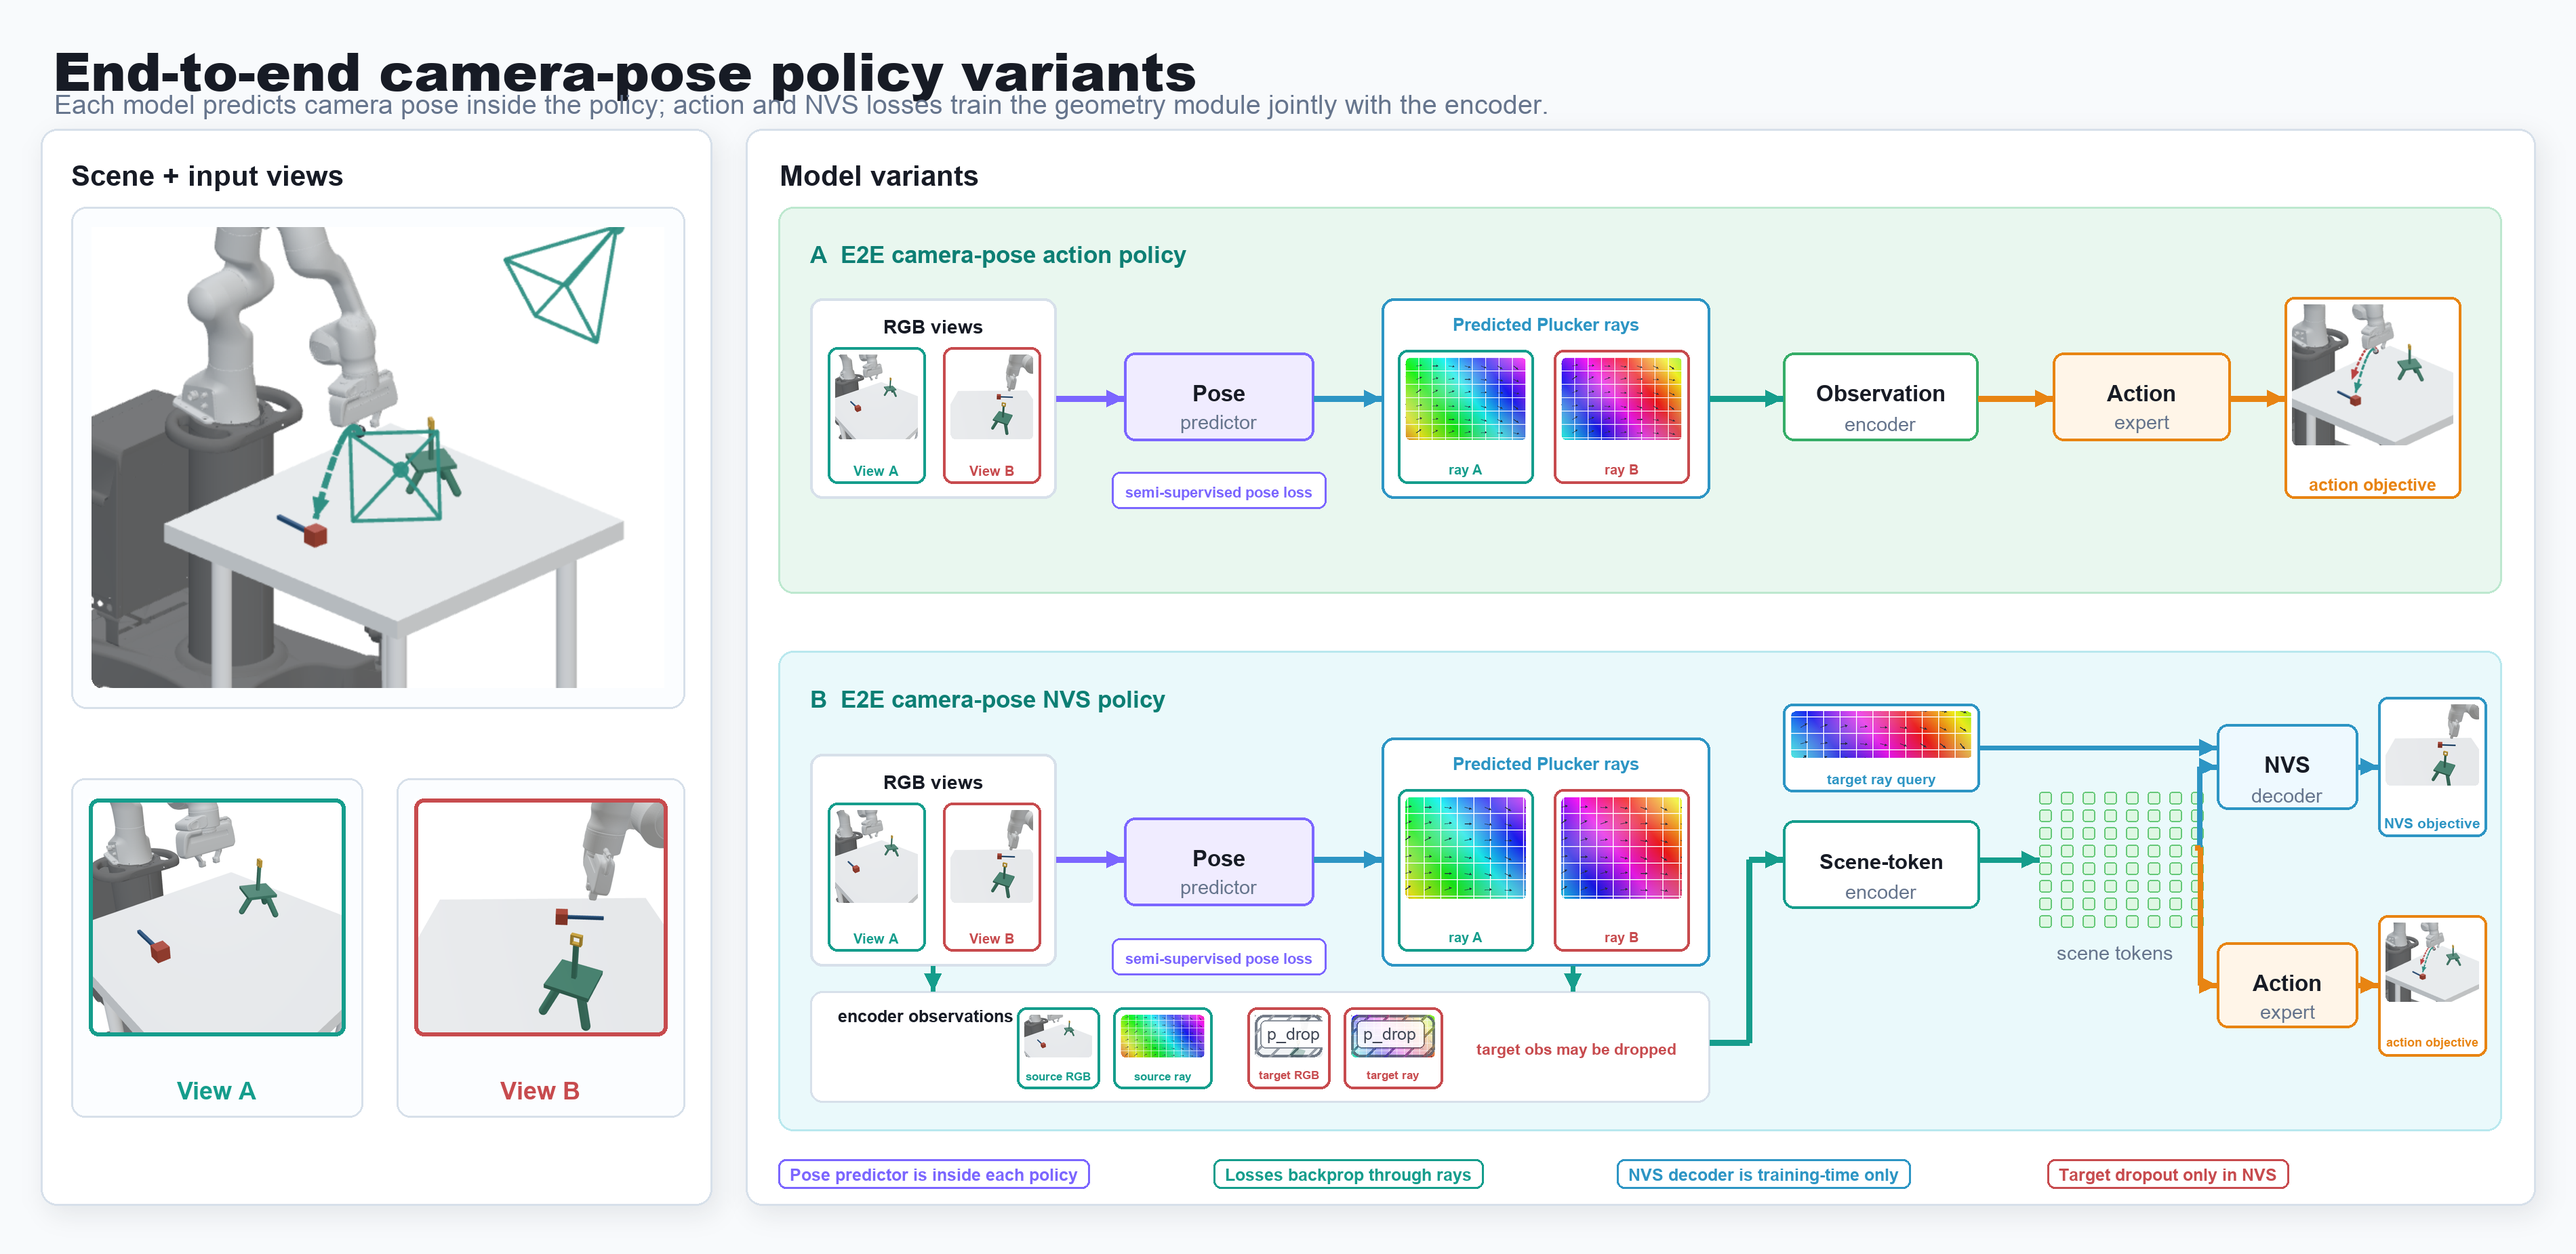
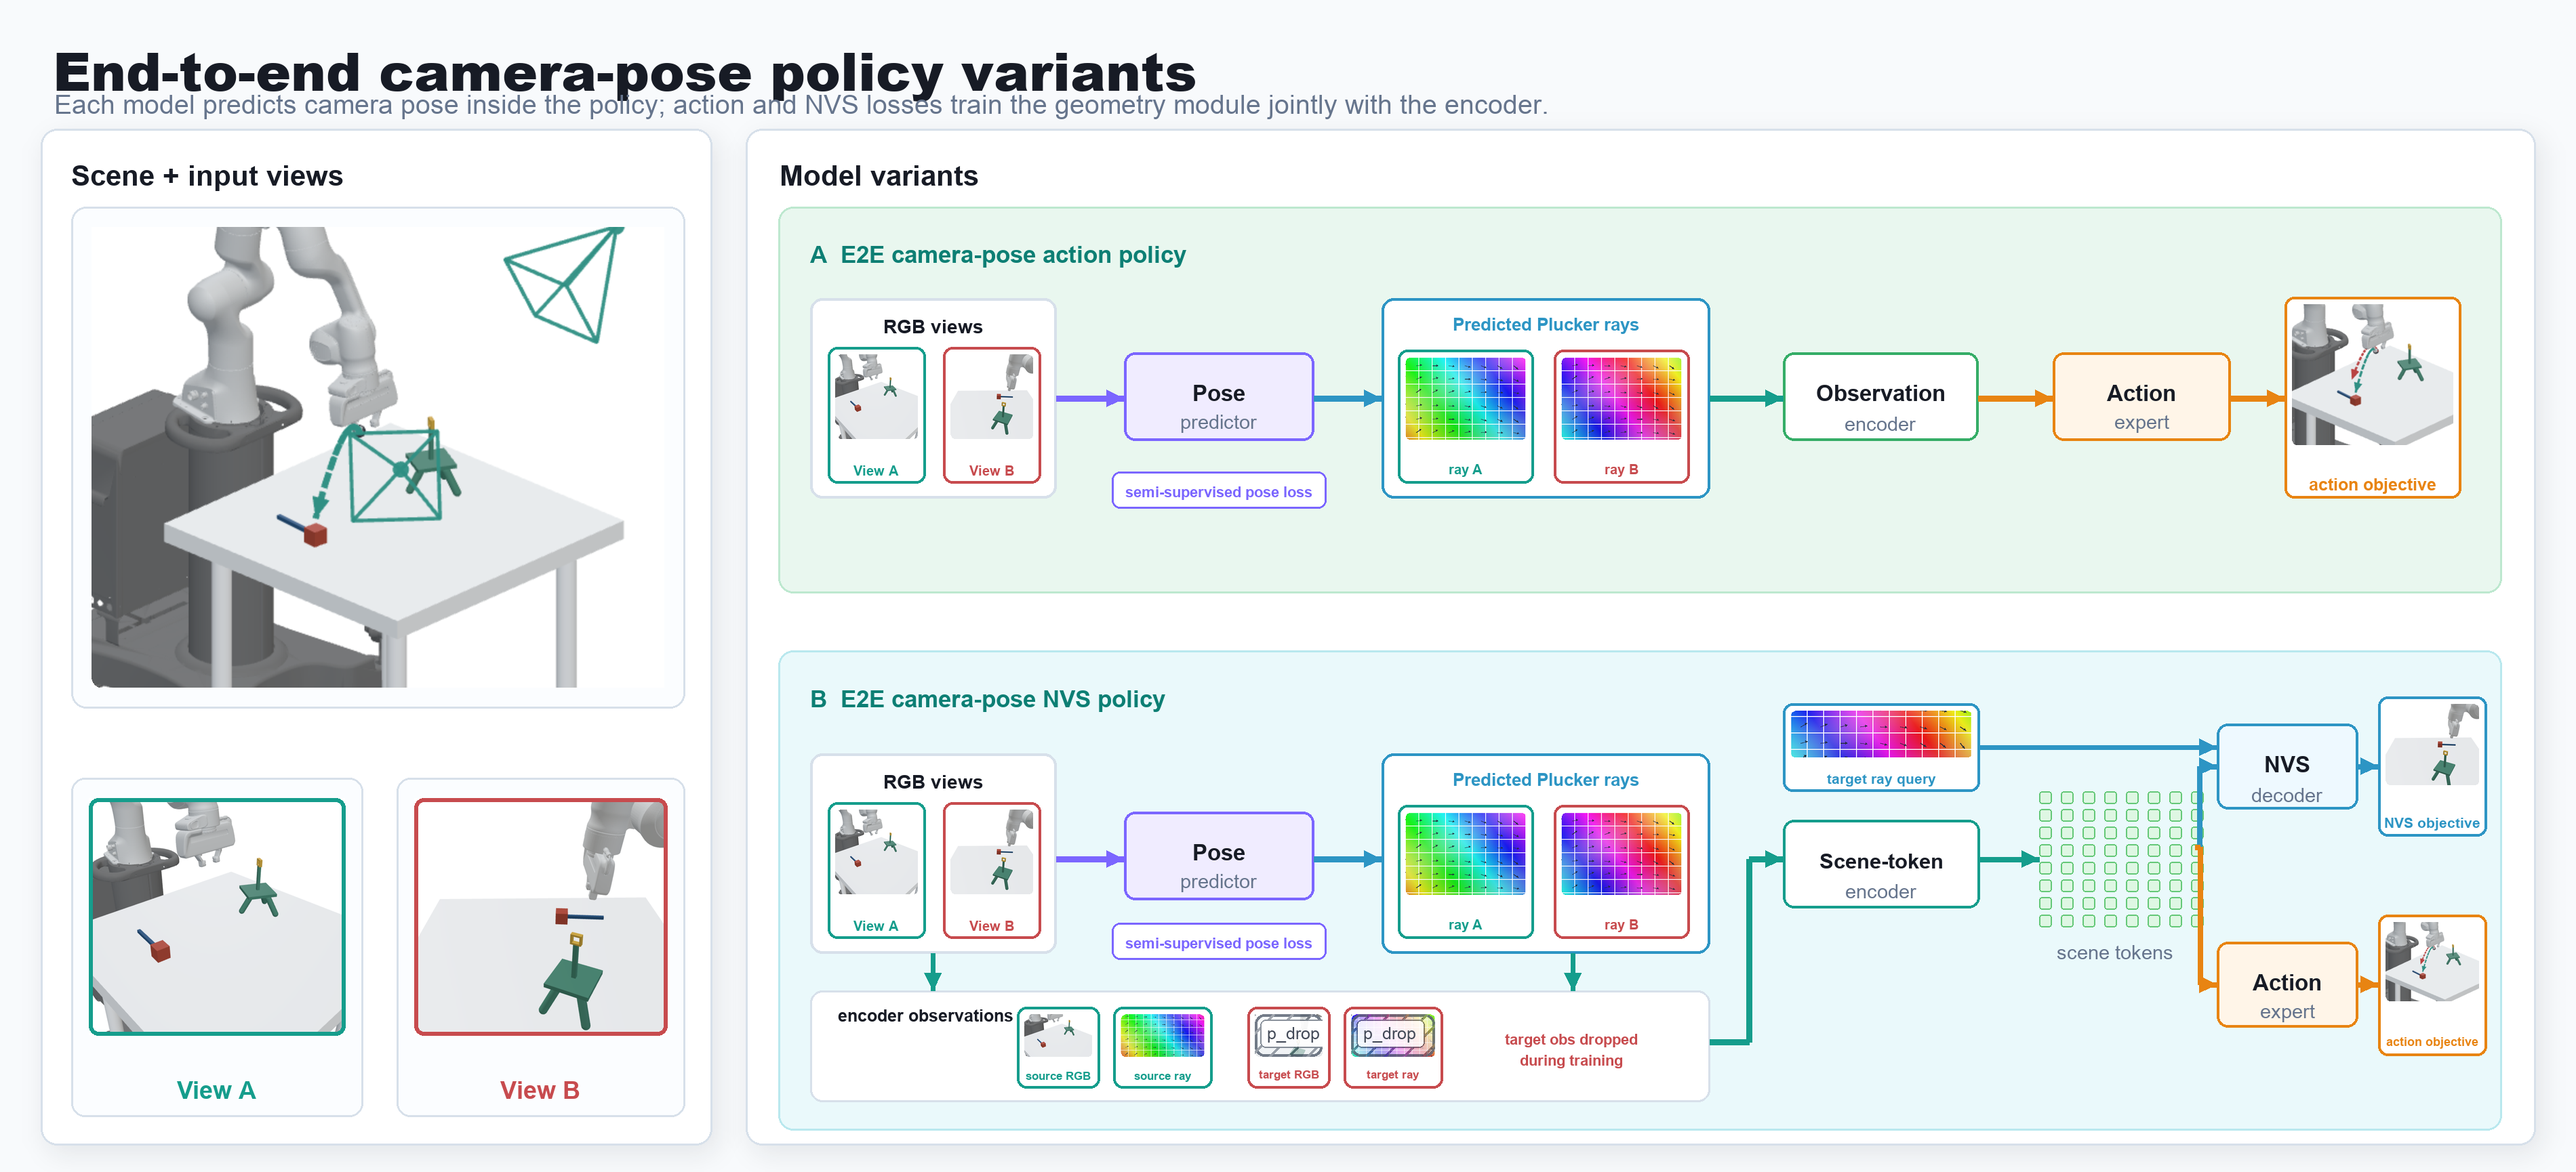
Simplify pipeline figure annotations

diff --git a/figures/scripts/render_pipeline_figure.py b/figures/scripts/render_pipeline_figure.py
@@ -12,7 +12,7 @@ ROOT = Path(__file__).resolve().parents[1]
 OUT = ROOT / "pipeline.png"
 ASSETS = ROOT / "pipeline_assets"
 
-W, H = 3800, 1850
+W, H = 3800, 1730
 FONT = Path("/System/Library/Fonts/Supplemental/Arial.ttf")
 BOLD = Path("/System/Library/Fonts/Supplemental/Arial Bold.ttf")
 BLACK = Path("/System/Library/Fonts/Supplemental/Arial Black.ttf")
@@ -223,8 +223,8 @@ def main():
     d.text((78, 48), "End-to-end camera-pose policy variants", font=F_TITLE, fill=C_TEXT)
     d.text((80, 132), "Each model predicts camera pose inside the policy; action and NVS losses train the geometry module jointly with the encoder.", font=F_SUB, fill=C_MUTED)
 
-    left = (60, 190, 1050, 1778)
-    right = (1100, 190, 3740, 1778)
+    left = (60, 190, 1050, 1690)
+    right = (1100, 190, 3740, 1690)
     shadowed_panel(left)
     shadowed_panel(right)
     d.text((105, 235), "Scene + input views", font=F_PANEL, fill=C_TEXT)
@@ -280,9 +280,9 @@ def main():
     band_b = (1148, 960, 3690, 1668)
     rounded(band_b, r=22, fill=C_CYAN_FILL, outline=C_CYAN_STROKE, width=3)
     d.text((1195, 1012), "B  E2E camera-pose NVS policy", font=F_BAND, fill=C_TEAL_DARK)
-    rgb_views_card((1195, 1112, 1558, 1425))
-    pose_block((1658, 1206, 1938, 1336), aux_y=1384)
-    ray_maps_card((2038, 1088, 2522, 1425))
+    rgb_views_card((1195, 1112, 1558, 1407))
+    pose_block((1658, 1198, 1938, 1328), aux_y=1362)
+    ray_maps_card((2038, 1112, 2522, 1407))
     arrow([(1558, 1268), (1658, 1268)], color=C_PURPLE, width=9)
     arrow([(1938, 1268), (2038, 1268)], color=C_BLUE, width=9)
 
@@ -293,9 +293,10 @@ def main():
     labeled_tile(ray_a, (1642, 1486, 1788, 1606), "source ray", C_TEAL, label_size=17, image_frac=0.62)
     labeled_tile(view_b, (1840, 1486, 1962, 1606), "target RGB", C_RED, label_size=17, image_frac=0.62, overlay_drop=True)
     labeled_tile(ray_b, (1982, 1486, 2128, 1606), "target ray", C_RED, label_size=17, image_frac=0.62, overlay_drop=True)
-    text_fit_center((2325, 1546), "target obs may be dropped", 23, 350, fill=C_RED, bold=True)
-    arrow([(1376, 1425), (1376, 1462)], color=C_TEAL, width=7)
-    arrow([(2320, 1425), (2320, 1462)], color=C_TEAL, width=7)
+    text_fit_center((2318, 1532), "target obs dropped", 22, 330, fill=C_RED, bold=True)
+    text_fit_center((2318, 1563), "during training", 22, 330, fill=C_RED, bold=True)
+    arrow([(1376, 1407), (1376, 1462)], color=C_TEAL, width=7)
+    arrow([(2320, 1407), (2320, 1462)], color=C_TEAL, width=7)
 
     node((2630, 1210, 2920, 1340), "Scene-token", "encoder", stroke=C_TEAL, fill="white", title_size=31)
     labeled_tile(ray_b, (2630, 1038, 2920, 1168), "target ray query", C_BLUE, label_color=C_BLUE, label_size=21, image_frac=0.62)
@@ -317,11 +318,6 @@ def main():
     arrow([(3478, 1131), (3508, 1131)], color=C_BLUE, width=8)
     arrow([(3238, 1250), (3245, 1250), (3245, 1453), (3270, 1453)], color=C_ORANGE, width=8)
     arrow([(3478, 1453), (3508, 1453)], color=C_ORANGE, width=8)
-
-    chip(1148, 1710, "Pose predictor is inside each policy", C_PURPLE)
-    chip(1790, 1710, "Losses backprop through rays", C_TEAL)
-    chip(2385, 1710, "NVS decoder is training-time only", C_BLUE)
-    chip(3020, 1710, "Target dropout only in NVS", C_RED)
 
     img.save(OUT, quality=98)
 

diff --git a/sections/02_method.tex b/sections/02_method.tex
@@ -157,13 +157,14 @@ geometry is inferred internally.
 \begin{figure}[t]
     \centering
     \includegraphics[width=\linewidth]{figures/pipeline.png}
-    \caption{Model pipeline. Both variants predict camera pose from RGB and
-    construct Plucker ray maps before action prediction. The action-only policy
-    feeds ray-conditioned observations to an action expert, while the NVS policy
-    uses a separate scene-token encoder over RGB--ray observations whose tokens
-    feed both the action expert and a training-time NVS decoder. The source/target
-    view split and target-observation dropout are used only for the NVS training
-    objective. Pose supervision is applied only on labeled episodes, and the NVS
-    decoder is discarded at inference.}
+    \caption{Model pipeline. Both variants predict camera pose inside the policy
+    and construct Plucker ray maps before action prediction, so action and NVS
+    losses can backpropagate through ray construction into the pose predictor.
+    The action-only policy feeds ray-conditioned observations to an action
+    expert. The NVS policy uses a separate scene-token encoder over RGB--ray
+    observations whose tokens feed both the action expert and a training-time NVS
+    decoder. Source/target selection and target-observation dropout are used
+    only for NVS training; the NVS decoder is discarded at inference. Pose
+    supervision is applied only on labeled episodes.}
     \label{fig:pipeline}
 \end{figure}
